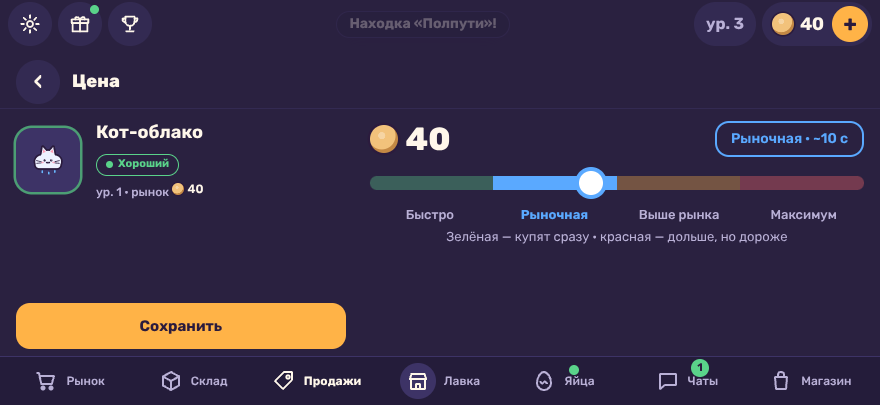
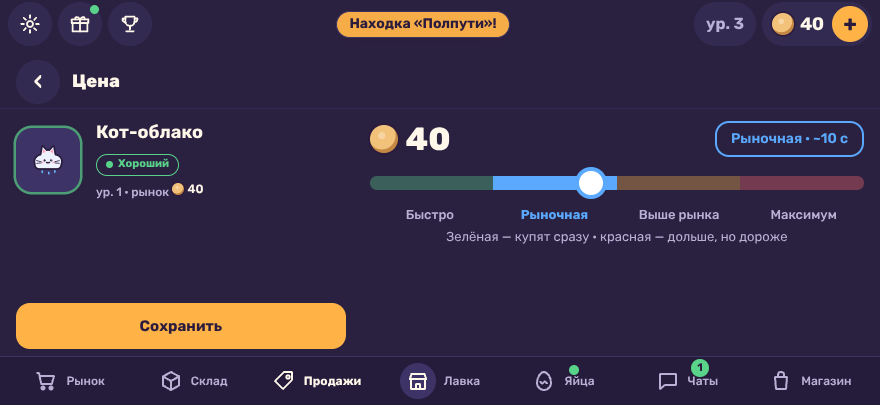
S-02: полоса шапки без кнопок, прокрученных под неё; тост переставляется, когда в шапке появляется кнопка
Claude-Session: https://claude.ai/code/session_015v7HeBPqEFeBRyQqcJuaYu

Changed region(s): [[0.3682, 0.0296, 0.583, 0.1185]]

diff --git a/src/ui/toast.ts b/src/ui/toast.ts
@@ -194,14 +194,29 @@ const windowOpen = (): boolean => document.querySelector('.overlay:not([hidden])
 /** S-02: an answer to a tap (now) or a refusal of one (warn) comes even over a window — the player tapped there. */
 const answers = (q: ToastItem): boolean => q.now === true || q.kind === 'warn';
 
+/** S-02: the part of an element in sight — clipped by every scrolling or clipping box around it. */
+function seen(e: HTMLElement): DOMRect {
+  let r = e.getBoundingClientRect();
+  for (let p = e.parentElement; p && p !== document.body; p = p.parentElement) {
+    const s = getComputedStyle(p);
+    if (s.overflowX === 'visible' && s.overflowY === 'visible') continue;
+    const c = p.getBoundingClientRect();
+    const left = Math.max(r.left, c.left);
+    const top = Math.max(r.top, c.top);
+    r = new DOMRect(left, top, Math.max(0, Math.min(r.right, c.right) - left), Math.max(0, Math.min(r.bottom, c.bottom) - top));
+  }
+  return r;
+}
+
 /** S-02: the widest free stretch of the top bar between its buttons and chips (none — null). */
 function barStretch(): { left: number; width: number; hud: DOMRect } | null {
   const hud = document.querySelector('.hud')?.getBoundingClientRect();
   if (!hud || hud.height === 0) return null;
-  // Every button of the bar's band, also those laid over it from outside the bar (gifts, the level, the leaders).
+  // Every button of the bar's band, also those laid over it from outside the bar (gifts, the level, the leaders); a list's button
+  // scrolled under the bar is clipped away (it is not in sight there).
   const edges = [...document.querySelectorAll<HTMLElement>('button, [data-action], [data-chip]')]
     .filter((e) => e.offsetParent !== null && !e.closest('.toasts'))
-    .map((e) => e.getBoundingClientRect())
+    .map(seen)
     .filter((r) => r.width > 0 && r.height > 0 && r.top < hud.bottom - 2 && r.bottom > hud.top + 2)
     .sort((a, b) => a.left - b.left);
   let from = Math.max(0, hud.left);
@@ -336,9 +351,16 @@ export function createToasts(parent: HTMLElement, extra: () => DOMRect[] = () =>
     }
 
     // S-02: a window that opens over a toast (not an answer) sends it back at once — it never lies on the window's buttons.
-    const watchWindow = new MutationObserver(() => {
+    // S-02: a button that shows up in the bar under a toast (gifts unlocked) moves it on the next frame.
+    let replace = 0;
+    const watchWindow = new MutationObserver((records) => {
       if (current !== el) return watchWindow.disconnect();
-      if (!gone && !answers(item) && windowOpen()) back();
+      if (!gone && !answers(item) && windowOpen()) return back();
+      if (gone || replace || records.every((r) => el.contains(r.target))) return;
+      replace = window.requestAnimationFrame(() => {
+        replace = 0;
+        if (current === el && !gone) place(el, extra);
+      });
     });
     watchWindow.observe(document.body, { subtree: true, attributes: true, attributeFilter: ['hidden', 'class'], childList: true });
     // A screen that opens under a toast already shown (a lot, a hint) moves it too.

diff --git a/e2e/truthful-s.spec.ts b/e2e/truthful-s.spec.ts
@@ -278,6 +278,11 @@ for (const size of SIZES) {
       await open(page);
       await page.locator('[data-tab=eggs]').tap();
       await page.waitForTimeout(400);
+      // The list scrolled a little: its buttons pass under the top bar (clipped there) — the toast still finds the bar's free stretch.
+      await page.evaluate(() => {
+        const body = document.querySelector<HTMLElement>('[data-sheet=eggs] > .sheet-body');
+        if (body) body.scrollTop = 40;
+      });
       const golden = await tr(page, 'event.golden');
       // A real event, a calm novelty and a plain toast — at once.
       await page.evaluate(() => {
@@ -312,7 +317,8 @@ for (const size of SIZES) {
       await page.evaluate(() => (window as unknown as { __TEST__: { hatch(uid: string, egg: string): boolean } }).__TEST__.hatch('s2', 'egg_basic'));
       await expect(page.locator('[data-overlay=hatch]')).toBeVisible();
       const find = 'Находка «Полпути»!';
-      await page.evaluate((text) => (window as unknown as T).__TEST__.toast(text), find);
+      // A find is a rare toast (as in the game): it is kept while others wait behind the window.
+      await page.evaluate((text) => (window as unknown as { __TEST__: { toast(t: string, k: string): void } }).__TEST__.toast(text, 'rare'), find);
       for (let i = 0; i < 15; i++) {
         expect((await toastNow(page)).text).not.toBe(find);
         await page.waitForTimeout(100);

diff --git a/src/test-api/index.ts b/src/test-api/index.ts
@@ -32,7 +32,8 @@ export interface TestHooks {
   /** e2e only: coins for flows that are not under test (shop purchases). */
   grant(coins: number): void;
   /** e2e only: a toast through the same queue as the game's (M3-18). */
-  toast?(text: string): void;
+  /** S-02: kind — a find is 'rare' (kept when the queue overflows), the default a plain one. */
+  toast?(text: string, kind?: 'info' | 'good' | 'rare' | 'warn'): void;
   /** H-04: calm news (a level, a new thing in the shop) through the same queue. */
   calmToast?(text: string): void;
   /** e2e only (M4-21): starts a random event by its id now, when it may come. */
@@ -93,8 +94,8 @@ export function installTestApi(hooks: TestHooks): void {
     event(id: string): boolean {
       return hooks.event?.(id) ?? false;
     },
-    toast(text: string): void {
-      hooks.toast?.(text);
+    toast(text: string, kind?: 'info' | 'good' | 'rare' | 'warn'): void {
+      hooks.toast?.(text, kind);
     },
     calmToast(text: string): void {
       hooks.calmToast?.(text);

diff --git a/src/main.ts b/src/main.ts
@@ -1283,7 +1283,7 @@ async function boot(): Promise<void> {
         store.state.coins += coins;
         store.commit();
       },
-      toast: (text) => toasts.show(text, 'info'),
+      toast: (text, kind) => toasts.show(text, kind ?? 'info'),
       calmToast: (text) => toasts.show(text, 'good', 2400, { calm: true }),
       event: (id) => play.startEventNow(id),
       hatch: (uid, egg) => {

diff --git a/progress.md b/progress.md
@@ -42,13 +42,14 @@
 
 ## Записи
 
-### 2026-10-27 14:05 · S-02 (доводка по боту) · тосты не ложатся на кнопки шапки и окна
+### 2026-10-27 13:41 · S-02 (доводка по боту) · тосты не ложатся на кнопки шапки и окна
 - Сделано: окно, открывшееся над тостом, отправляет его в начало очереди сразу (наблюдатель за окнами, было — через 250 мс: тост успевал лечь на «Вылупился!»); свободная полоса шапки считается по всем кнопкам её высоты, и тем, что лежат над шапкой снаружи (☰, «Подарки», уровень); тост в шапке плотнее (14 px, отступ 4 px), две строки влезают в высоту шапки, длинный тост больше не уходит под шапку на кнопки
 - Разведка: бот «после» (первый прогон) — поверх кнопок 3–5 тостов, все на ☰, «Подарках», «ур. N» или в миг открытия окна; при окне — 2–3
 - Тесты: verify:fast — код 0; e2e S-02 на трёх размерах с длинным тостом «Это пекарня?» — 3 прошло; H-01, H-04 и тосты P — 10 прошло
 - Данные: нет
 - Дальше: бот «после» начисто, плейтестер, ревизор
 - Вопросы: Q-074, Q-075 (выбрано по умолчанию)
+- Повтор бота (13:55): полоса шапки не дробится кнопками списка, прокрученными под шапку (видимая часть по обрезке прокрутки), кнопка, появившаяся в шапке под тостом («Подарки» после первой находки), переставляет тост на следующем кадре; тестовый `toast(text, kind)` — находка в e2e «редкая», как в игре
 
 ### 2026-10-27 13:20 · S-09 · весь экран по первому тапу (дополнение штаба)
 - Сделано: любой тап пальцем вне полноэкранного режима просит весь экран (на отпускании пальца — браузер разрешает запрос только из тапа), не чаще раза в секунду, мышь не просит, отказ — игра целая в окне и следующий тап просит снова (`src/ui/fullscreen.ts`). Платформа даёт `fullscreen`: Яндекс — `ysdk.screen.fullscreen.request()` (status on — ничего), `null` — Fullscreen API с `navigationUI: 'hide'`, `vk` — только заглушка `?mock=vk`; живой мост VK/ОК и YouTube не просят. Мок SDK ссылки продюсера отвечал на request() пустышкой — теперь зовёт Fullscreen API браузера, status по `document.fullscreenElement`. После `fullscreenchange`, `visibilitychange` (возврат) и `resize` раскладка пересчитывается сразу, через кадр и через 250 мс. `docs/02` §6.4а
